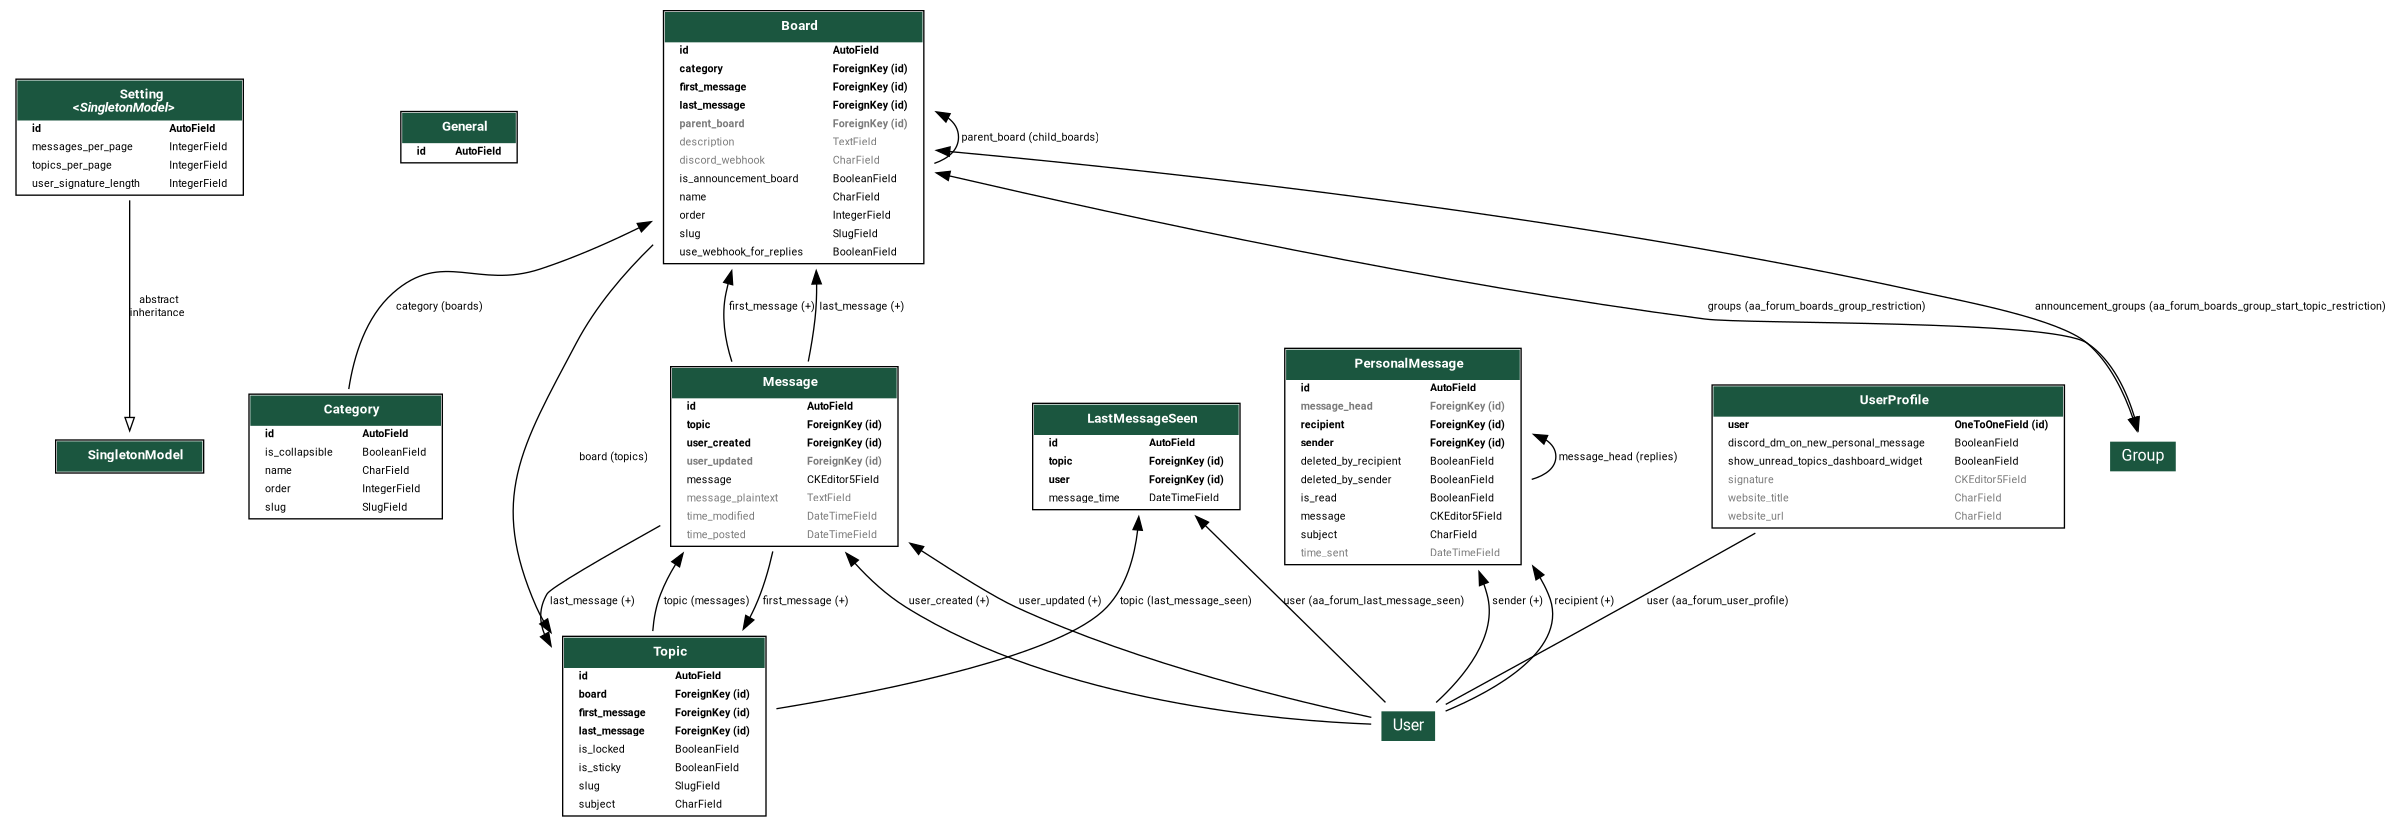
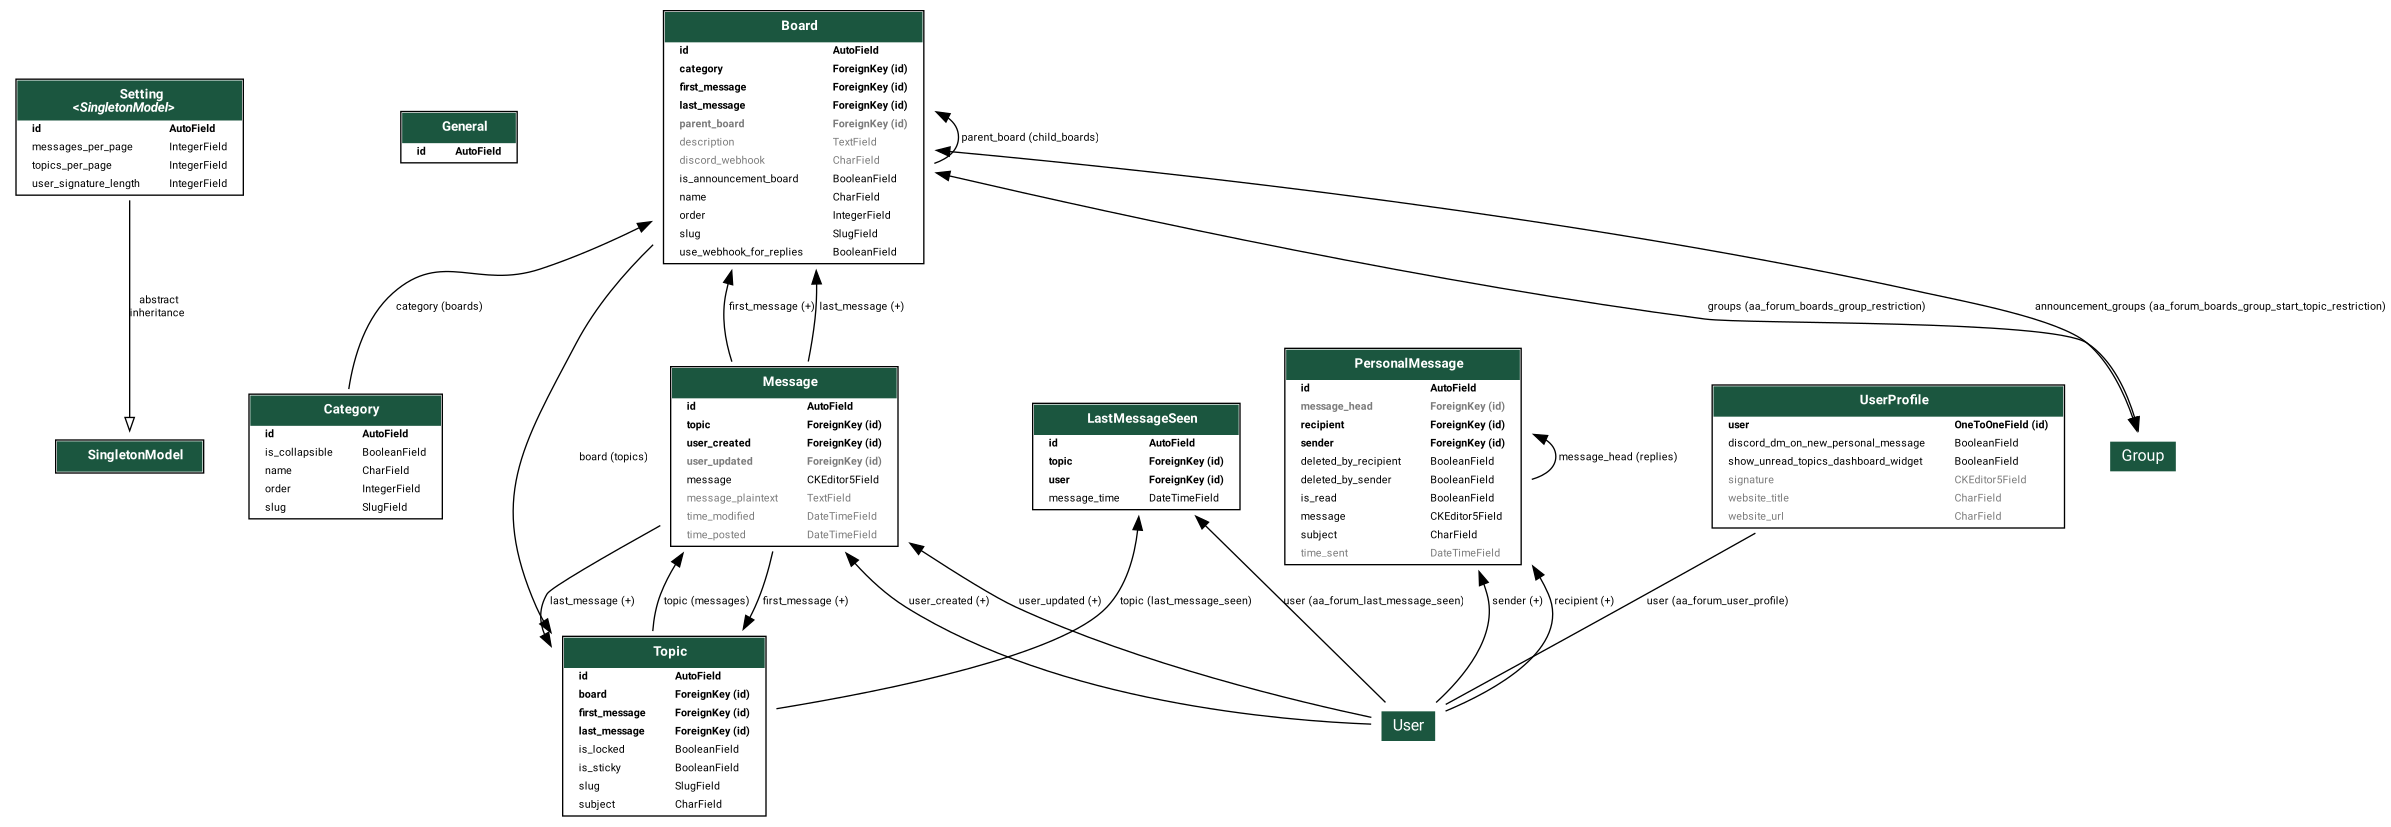
Merge pull request #390 from ppfeufer/release/v2.15.0
[RELEASE] v2.15.0

Pull request: [RELEASE] v2.15.0
## [2.15.0] - 2026-06-02

### Fixed

- Grammar - No space before ellipsis

### Changed

- Modular providers
- Translations updated

diff --git a/aa_forum/__init__.py b/aa_forum/__init__.py
@@ -5,6 +5,6 @@ AA-Forum
 # Django
 from django.utils.translation import gettext_lazy as _
 
-__version__ = "2.14.6"
+__version__ = "2.15.0"
 __title__ = "Forum"
 __title_translated__ = _("Forum")

diff --git a/CHANGELOG.md b/CHANGELOG.md
@@ -43,6 +43,8 @@ Section Order:
 
 <!-- Your changes go here -->
 
+## [2.15.0] - 2026-06-02
+
 ### Fixed
 
 - Grammar - No space before ellipsis
@@ -50,6 +52,7 @@ Section Order:
 ### Changed
 
 - Modular providers
+- Translations updated
 
 ## [2.14.6] - 2026-05-05
 
@@ -1764,6 +1767,7 @@ python manage.py migrate aa_forum
 [2.14.4]: https://github.com/ppfeufer/aa-forum/compare/v2.14.3...v2.14.4 "v2.14.4"
 [2.14.5]: https://github.com/ppfeufer/aa-forum/compare/v2.14.4...v2.14.5 "v2.14.5"
 [2.14.6]: https://github.com/ppfeufer/aa-forum/compare/v2.14.5...v2.14.6 "v2.14.6"
+[2.15.0]: https://github.com/ppfeufer/aa-forum/compare/v2.14.6...v2.15.0 "v2.15.0"
 [2.2.0]: https://github.com/ppfeufer/aa-forum/compare/v2.1.1...v2.2.0 "v2.2.0"
 [2.2.1]: https://github.com/ppfeufer/aa-forum/compare/v2.2.0...v2.2.1 "v2.2.1"
 [2.3.0]: https://github.com/ppfeufer/aa-forum/compare/v2.2.1...v2.3.0 "v2.3.0"
@@ -1782,7 +1786,7 @@ python manage.py migrate aa_forum
 [aa-discordbot]: https://github.com/pvyParts/allianceauth-discordbot "AA-Discordbot"
 [admin board options]: https://raw.githubusercontent.com/ppfeufer/aa-forum/master/docs/images/admin-board-options.jpg "Admin Board Options"
 [discordproxy]: https://gitlab.com/ErikKalkoken/discordproxy "discordproxy"
-[in development]: https://github.com/ppfeufer/aa-forum/compare/v2.14.6...HEAD "In Development"
+[in development]: https://github.com/ppfeufer/aa-forum/compare/v2.15.0...HEAD "In Development"
 [keep a changelog]: http://keepachangelog.com/ "Keep a Changelog"
 [new feature: announcement boards]: https://raw.githubusercontent.com/ppfeufer/aa-forum/master/docs/images/feature-announcement-board.jpg "New Feature: Announcement Boards"
 [new feature: support for aa-timezones]: https://user-images.githubusercontent.com/2989985/195106607-8caf39c1-7343-404b-a926-e3253558b1ce.png "New Feature: Support for aa-timezones"

diff --git a/README.md b/README.md
@@ -129,7 +129,7 @@ Make sure you're in the virtual environment (venv) of your Alliance Auth
 installation Then install the latest release directly from PyPi.
 
 ```shell
-pip install aa-forum==2.14.6
+pip install aa-forum==2.15.0
 ```
 
 ### Step 2: Configure Alliance Auth<a name="step-2-configure-alliance-auth"></a>